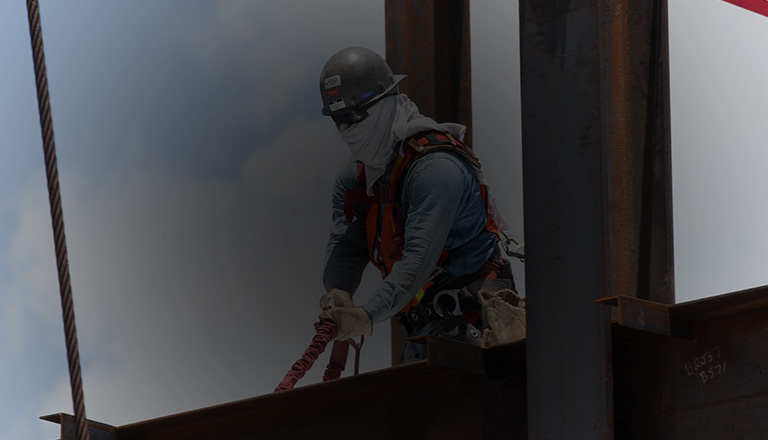
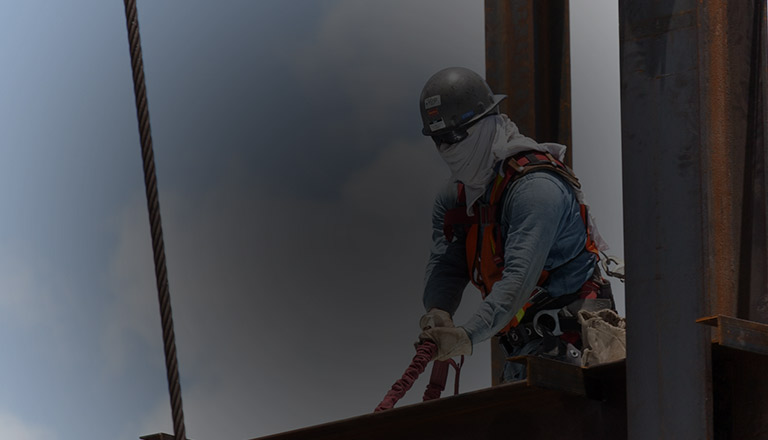
added meta data, mobile lead art

diff --git a/app/index.html b/app/index.html
@@ -8,14 +8,21 @@
     <meta charset="utf-8">
     <link rel="shortcut icon" type="image/x-icon" href="https://s3.amazonaws.com/static.texastribune.org/common/images/favicon.ico">
     <title>The Texas Tribune: Hurting for Work</title>
-    <meta name="author" content="Becca">
+    <meta name="viewport" content="width=device-width, initial-scale=1.0">
+    <meta name="author" content="The Texas Tribune"/>
+    <meta name="copyright" content="&copy; The Texas Tribune"/>
+    <meta name="language" content="EN"/>
+    <meta name="audience" content="All"/>
+    <meta name="publisher" content="The Texas Tribune"/>
+<!--     <meta name="distribution" content="global"/> -->
+<!-- <meta name="robots" content="index,follow"/>
+<meta name="siteinfo" content="robots.txt"/> -->
     <meta name="description" content="Tribinvestigates: How disdain for government regulation sparked a &ldquo;Texas Miracle&rdquo; economy — while tearing down protections for the workers who built it.">
     <meta property="og:site_name" content="The Texas Tribune">
     <meta property="og:description" content="Tribinvestigates: How disdain for government regulation sparked a &ldquo;Texas miracle&rdquo; economy — while tearing down protections for the workers who built it.">
     <meta property="og:title" content="Hurting for Work: A Disposable Workforce">
     <meta property="og:url" content="http://apps.texastribune.org/hurting-for-work/">
     <meta property="og:image" content="http://apps.texastribune.org.s3.amazonaws.com/branding/og/TT-hurting-for-work-overview.jpg">
-    <meta name="viewport" content="width=device-width, initial-scale=1">
     <link rel="shortcut icon" href="/favicon.ico">
     <!-- Place favicon.ico and apple-touch-icon.png in the root directory -->
     <!-- build:css styles/vendor.css -->
@@ -318,7 +325,7 @@
                 <!-- Image -->
                 <div class="big-block">
                     <img src="images/tt-workers-overview-003-717x448.jpg" alt="A worker helps with construction of a building in Austin. Photo by Callie Richmond.">
-                    <p class="caption">A worker helps with construction of a building in Austin. Photo by Callie Richmond.</p>
+                    <p class="caption">Workers help with construction of a building in Austin. Photo by Todd Wiseman.</p>
                 </div>
             </div>
             <div class="prose">

diff --git a/app/the-working-wounded/index.html b/app/the-working-wounded/index.html
@@ -8,14 +8,21 @@
     <meta charset="utf-8">
     <link rel="shortcut icon" type="image/x-icon" href="https://s3.amazonaws.com/static.texastribune.org/common/images/favicon.ico">
     <title>The Texas Tribune: Hurting for Work</title>
-    <meta name="author" content="Becca">
+    <meta name="viewport" content="width=device-width, initial-scale=1.0">
+    <meta name="author" content="The Texas Tribune"/>
+    <meta name="copyright" content="&copy; The Texas Tribune"/>
+    <meta name="language" content="EN"/>
+    <meta name="audience" content="All"/>
+    <meta name="publisher" content="The Texas Tribune"/>
+<!--     <meta name="distribution" content="global"/> -->
+<!-- <meta name="robots" content="index,follow"/>
+<meta name="siteinfo" content="../robots.txt"/> -->
     <meta name="description" content="Tribinvestigates: How disdain for government regulation sparked a &ldquo;Texas miracle&rdquo; economy — while tearing down protections for the workers who built it.">
     <meta property="og:site_name" content="The Texas Tribune">
     <meta property="og:description" content="Tribinvestigates: How disdain for government regulation sparked a &ldquo;Texas miracle&rdquo; economy — while tearing down protections for the workers who built it.">
     <meta property="og:title" content="Hurting for Work: The Working Wounded">
     <meta property="og:url" content="http://apps.texastribune.org/hurting-for-work/the-working-wounded/">
     <meta property="og:image" content="http://apps.texastribune.org.s3.amazonaws.com/branding/og/TT-hurting-for-work-overview.jpg">
-    <meta name="viewport" content="width=device-width, initial-scale=1">
     <link rel="shortcut icon" href="/favicon.ico">
     <!-- Place favicon.ico and apple-touch-icon.png in the root directory -->
     <!-- build:css ../styles/vendor.css -->

diff --git a/app/a-twisted-system/index.html b/app/a-twisted-system/index.html
@@ -8,14 +8,21 @@
     <meta charset="utf-8">
     <link rel="shortcut icon" type="image/x-icon" href="https://s3.amazonaws.com/static.texastribune.org/common/images/favicon.ico">
     <title>The Texas Tribune: Hurting for Work</title>
-    <meta name="author" content="Becca">
+    <meta name="viewport" content="width=device-width, initial-scale=1.0">
+    <meta name="author" content="The Texas Tribune"/>
+    <meta name="copyright" content="&copy; The Texas Tribune"/>
+    <meta name="language" content="EN"/>
+    <meta name="audience" content="All"/>
+    <meta name="publisher" content="The Texas Tribune"/>
+<!--     <meta name="distribution" content="global"/> -->
+<!-- <meta name="robots" content="index,follow"/>
+<meta name="siteinfo" content="../robots.txt"/> -->
     <meta name="description" content="Tribinvestigates: How disdain for government regulation sparked a &ldquo;Texas miracle&rdquo; economy — while tearing down protections for the workers who built it.">
     <meta property="og:site_name" content="The Texas Tribune">
     <meta property="og:description" content="Tribinvestigates: How disdain for government regulation sparked a &ldquo;Texas miracle&rdquo; economy — while tearing down protections for the workers who built it.">
     <meta property="og:title" content="Hurting for Work: A Twisted System">
     <meta property="og:url" content="http://apps.texastribune.org/hurting-for-work/a-twisted-system/">
     <meta property="og:image" content="http://apps.texastribune.org.s3.amazonaws.com/branding/og/TT-hurting-for-work-davis.jpg">
-    <meta name="viewport" content="width=device-width, initial-scale=1">
     <link rel="shortcut icon" href="/favicon.ico">
     <!-- Place favicon.ico and apple-touch-icon.png in the root directory -->
     <!-- build:css ../styles/vendor.css -->

diff --git a/app/no-safety-net/index.html b/app/no-safety-net/index.html
@@ -8,14 +8,21 @@
     <meta charset="utf-8">
     <link rel="shortcut icon" type="image/x-icon" href="https://s3.amazonaws.com/static.texastribune.org/common/images/favicon.ico">
     <title>The Texas Tribune: Hurting for Work</title>
-    <meta name="author" content="Becca">
+    <meta name="viewport" content="width=device-width, initial-scale=1.0">
+    <meta name="author" content="The Texas Tribune"/>
+    <meta name="copyright" content="&copy; The Texas Tribune"/>
+    <meta name="language" content="EN"/>
+    <meta name="audience" content="All"/>
+    <meta name="publisher" content="The Texas Tribune"/>
+<!--     <meta name="distribution" content="global"/> -->
+<!-- <meta name="robots" content="index,follow"/>
+<meta name="siteinfo" content="../robots.txt"/> -->
     <meta name="description" content="Tribinvestigates: How disdain for government regulation sparked a &ldquo;Texas miracle&rdquo; economy — while tearing down protections for the workers who built it.">
     <meta property="og:site_name" content="The Texas Tribune">
     <meta property="og:description" content="Tribinvestigates: How disdain for government regulation sparked a &ldquo;Texas miracle&rdquo; economy — while tearing down protections for the workers who built it.">
     <meta property="og:title" content="Hurting for Work: No Safety Net">
     <meta property="og:url" content="http://apps.texastribune.org/hurting-for-work/no-safety-net/">
     <meta property="og:image" content="http://apps.texastribune.org.s3.amazonaws.com/branding/og/TT-hurting-for-work-arias.jpg">
-    <meta name="viewport" content="width=device-width, initial-scale=1">
     <link rel="shortcut icon" href="/favicon.ico">
     <!-- Place favicon.ico and apple-touch-icon.png in the root directory -->
     <!-- build:css ../styles/vendor.css -->

diff --git a/app/sass/_theme.scss b/app/sass/_theme.scss
@@ -107,7 +107,7 @@ body {
 		}
 	}
 	.lead-four {
-		background-image: url(../images/leads/Lead-Day-4.jpg);
+		background-image: url(../images/leads/Lead-Day-4-mobile.jpg);
 		@include media($desktop) {
 			background-image: url(../images/leads/Lead-Day-4.jpg);
 		}
